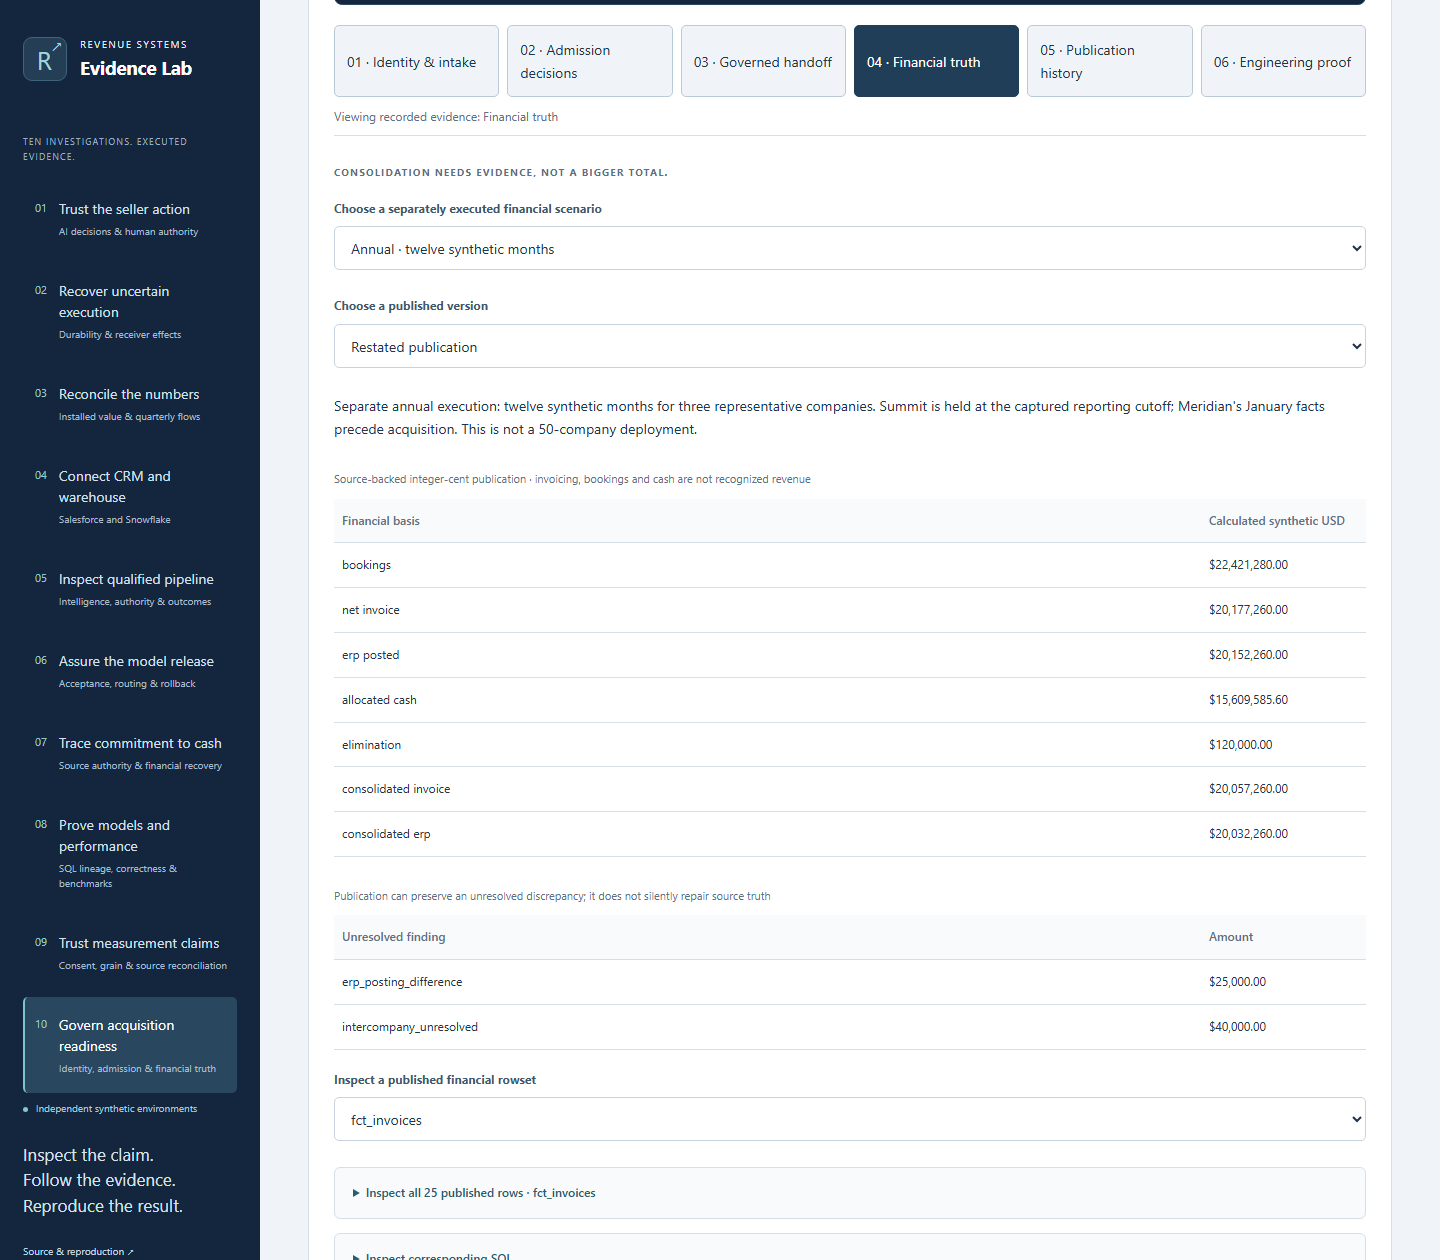
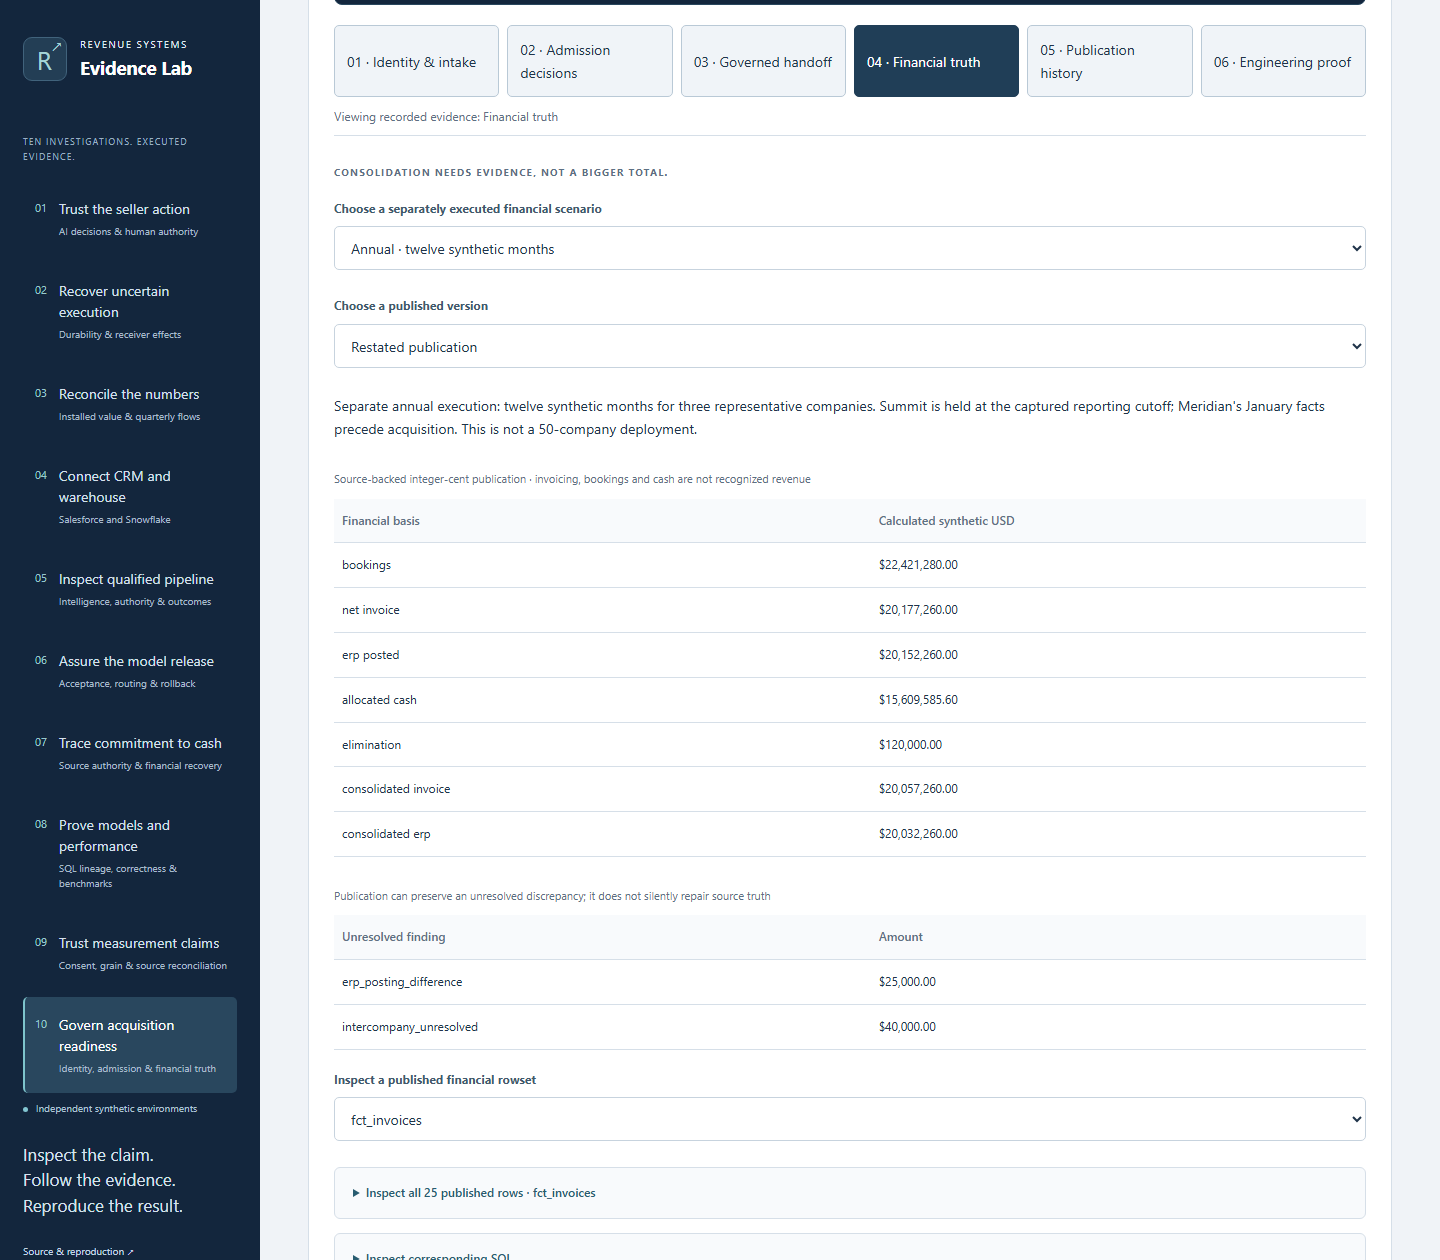
Improve mobile financial readability

diff --git a/web/acquisition.js b/web/acquisition.js
@@ -10,7 +10,7 @@ export function acquisitionPanel(ui){
  const inspect=(parent,title,value)=>{const d=el("details"),r=ui.raw(value);r.tabIndex=0;d.append(el("summary",title),r);parent.append(d);};
  const origin=(file,label)=>{const a=el("a",label+" ↗");a.href=up.artifacts.find(a=>a.file===file).source_url;return a;};
  const choose=(label,id,options,value,fn)=>{const box=el("div",undefined,"analytics-control"),l=el("label",label),s=el("select");l.htmlFor=id;s.id=id;for(const [v,t] of options){const o=el("option",t);o.value=v;s.append(o);}s.value=value;s.addEventListener("change",()=>{fn(s.value);document.getElementById(id)?.focus();});box.append(l,s);return box;};
- function table(headers,rows,caption){const wrap=el("div",undefined,"analytics-table");wrap.tabIndex=0;wrap.setAttribute("role","region");wrap.setAttribute("aria-label",caption);const t=el("table"),head=el("thead"),tr=el("tr");t.append(el("caption",caption));for(const h of headers){const c=el("th",h);c.scope="col";tr.append(c);}head.append(tr);t.append(head);const body=el("tbody");for(const row of rows){const tr=el("tr");for(const v of row)tr.append(el("td",v));body.append(tr);}t.append(body);wrap.append(t);return wrap;}
+ function table(headers,rows,caption){const wrap=el("div",undefined,"analytics-table");wrap.tabIndex=0;wrap.setAttribute("role","region");wrap.setAttribute("aria-label",caption);const t=el("table"),head=el("thead"),tr=el("tr");if(headers.length===2)t.className="acquisition-pairs";t.append(el("caption",caption));for(const h of headers){const c=el("th",h);c.scope="col";tr.append(c);}head.append(tr);t.append(head);const body=el("tbody");for(const row of rows){const tr=el("tr");for(const v of row)tr.append(el("td",v));body.append(tr);}t.append(body);wrap.append(t);return wrap;}
  const hero=el("div",undefined,"release-hero");hero.append(el("small","RECORDED ACQUISITION ENGINEERING · THREE SYNTHETIC COMPANIES","release-kicker"),el("h2","Imported does not mean ready to consolidate."),el("p","Three businesses share a customer number and trade name. Inspect the reviewed identity boundaries, receipted handoff and financial cutoffs that determine what may enter the parent platform. Invoicing and cash remain distinct from recognized revenue."));root.append(hero);
  const nav=el("nav",undefined,"release-stages");nav.setAttribute("aria-label","Acquisition investigation stages");const announcement=el("p",undefined,"release-announcement");announcement.setAttribute("role","status");const content=el("div",undefined,"release-detail");
  const dataset=()=>read(scenario==="annual"?"annual.json":"selected-period.json");

diff --git a/web/style.css b/web/style.css
@@ -947,3 +947,7 @@ th {
 
 /* Keep exact annual amounts readable on very narrow acquisition views. */
 @media (max-width:400px) { .metrics.acquisition-metrics { grid-template-columns:1fr; } }
+
+.acquisition-investigation .analytics-table table.acquisition-pairs { min-width:0; width:100%; }
+
+.acquisition-investigation .acquisition-pairs th:nth-child(2) { width:48%; }

diff --git a/scripts/capture_acquisition.py b/scripts/capture_acquisition.py
@@ -66,6 +66,10 @@ def main():
                 page.set_viewport_size({"width":width,"height":1100 if width>768 else 844})
                 for stage in STAGES:
                     page.locator(f'[data-acquisition-stage="{stage}"]').click()
+                    if stage=="finance":
+                        bounds=page.get_by_role("cell",name="$20,057,260.00",exact=True).bounding_box()
+                        assert bounds["x"]>=0 and bounds["x"]+bounds["width"]<=width, "financial amount requires horizontal scrolling"
+                        assert page.get_by_role("cell",name="$20,057,260.00",exact=True).evaluate("e=>{const r=document.createRange();r.selectNodeContents(e);return r.getClientRects().length}")==1, "financial amount breaks across lines"
                     layouts.append({"width":width,"state":stage,"overflow":page.evaluate("document.documentElement.scrollWidth>innerWidth"),"contrast":page.evaluate(CONTRAST)})
                     if width in [1440,390]:
                         result=page.evaluate("async()=>{const r=await axe.run(document,{runOnly:{type:'tag',values:['wcag2a','wcag2aa','wcag21aa']}});return {violations:r.violations,incomplete:r.incomplete.map(x=>({id:x.id,impact:x.impact})),passes:r.passes.length}}")
@@ -90,7 +94,7 @@ def main():
             page.evaluate("scrollTo(0,document.querySelector('.release-stages').getBoundingClientRect().top+scrollY-25)")
             page.screenshot(path=str(args.images/"acquisition-governance-finance.png"));images["acquisition-governance-finance.png"]={"width":1440,"height":1260,"capture":"actual viewport; separately executed annual financial publication and preserved findings"}
             page.set_viewport_size({"width":390,"height":1000})
-            page.evaluate("scrollTo(0,document.querySelector('.release-stages').getBoundingClientRect().top+scrollY-15)")
+            page.evaluate("scrollTo(0,document.querySelector('.release-detail').getBoundingClientRect().top+scrollY-15)")
             page.screenshot(path=str(args.images/"acquisition-governance-mobile.png"));images["acquisition-governance-mobile.png"]={"width":390,"height":1000,"capture":"actual mobile viewport; annual financial publication"}
             browser_version=browser.version;browser.close()
     finally:

diff --git a/tests/test_acquisition_browser.py b/tests/test_acquisition_browser.py
@@ -40,6 +40,11 @@ def test_acquisition_identity_admission_receipts_financial_versions_and_download
   for tab in ["Source records","Evidence timeline","Compare & verify"]:
    page.get_by_role("tab",name=tab,exact=True).click();assert page.locator("#panel").inner_text().strip()
   page.get_by_role("tab",name="Decision & outcome",exact=True).click();page.set_viewport_size({"width":320,"height":844});assert not page.evaluate("document.documentElement.scrollWidth>innerWidth")
+  page.locator('[data-acquisition-stage="finance"]').click()
+  page.get_by_label("Choose a separately executed financial scenario").select_option("annual")
+  page.get_by_label("Choose a published version").select_option("restated")
+  bounds=page.get_by_role("cell",name="$20,057,260.00",exact=True).bounding_box()
+  assert bounds["x"]>=0 and bounds["x"]+bounds["width"]<=320
   assert page.locator("#fresh").is_hidden() and not errors and not writes
   browser.close()
 
